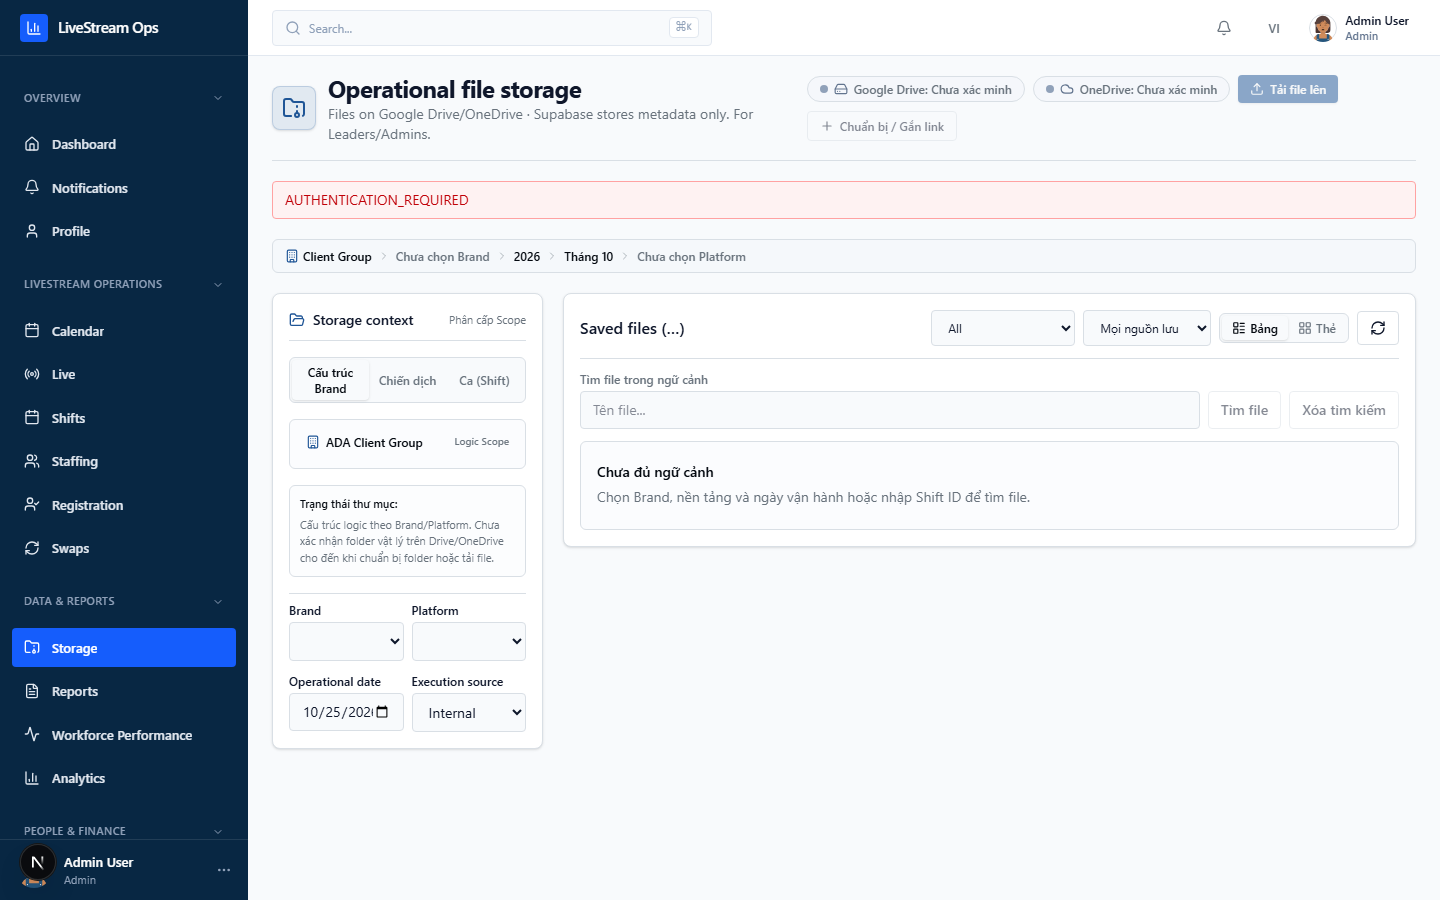
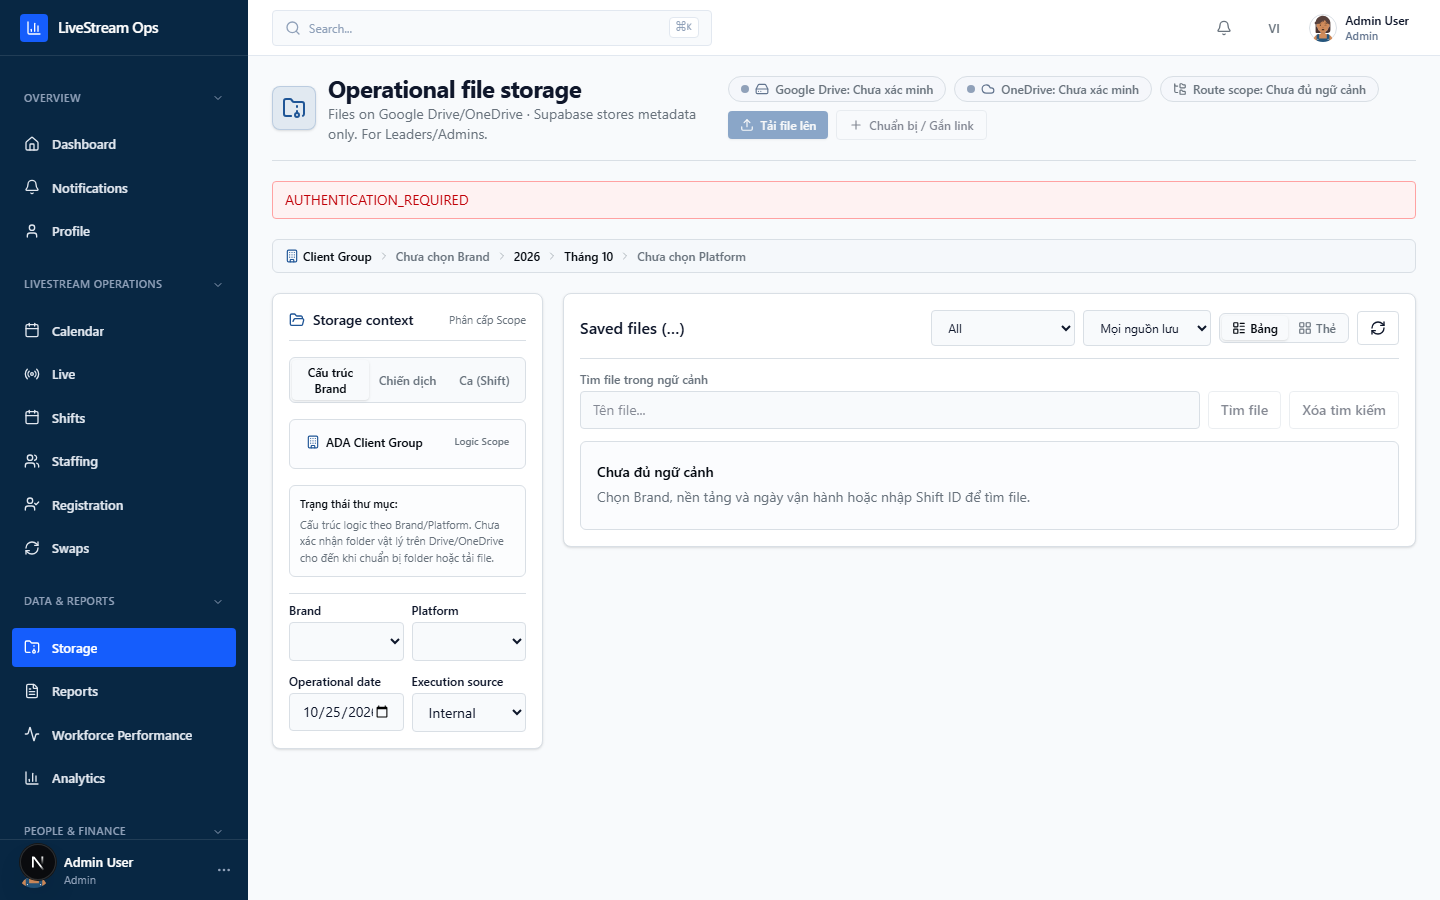
fix(storage): harden trusted access urls and differentiate system vs scope storage routes for u08

Changed region(s): [[0.5, 0.0622, 0.9375, 0.1556], [0.2188, 0.1244, 0.3438, 0.1556]]

diff --git a/components/features/storage/OperationalFileWorkspace.tsx b/components/features/storage/OperationalFileWorkspace.tsx
@@ -10,10 +10,12 @@ import { CommandToolbar } from '@/components/ui/command-toolbar'
 import { useSearchParams } from 'next/navigation'
 import Link from 'next/link'
 import { useTranslation } from '@/lib/i18n'
+import { isTrustedAccessUrl } from '@/lib/files/trustedAccessUrl'
 import {
   FolderArchive,
   Folder,
   FolderOpen,
+  FolderTree,
   ChevronRight,
   ChevronDown,
   Upload,
@@ -467,9 +469,20 @@ export function OperationalFileWorkspace() {
             <span>OneDrive: Chưa xác minh</span>
           </div>
           {catalog?.active_route_count != null && (
-            <div className={cn("flex items-center gap-1.5 rounded-full border px-3 py-1 text-xs font-medium", catalog.active_route_count > 0 ? "bg-slate-50 text-slate-700 border-slate-200" : "bg-amber-50 text-amber-800 border-amber-200")} title="Tổng số Storage Routes đang active trong database">
+            <div className={cn("flex items-center gap-1.5 rounded-full border px-3 py-1 text-xs font-medium", catalog.active_route_count > 0 ? "bg-slate-50 text-slate-700 border-slate-200" : "bg-amber-50 text-amber-800 border-amber-200")} title="Tổng số Storage Routes kích hoạt trong CSDL toàn hệ thống">
               <Layers className="h-3.5 w-3.5" />
-              <span>Storage Routes: {catalog.active_route_count} route(s) CSDL</span>
+              <span>Routes hệ thống: {catalog.active_route_count} route CSDL</span>
+            </div>
+          )}
+          {hasCompleteScope ? (
+            <div className={cn("flex items-center gap-1.5 rounded-full border px-3 py-1 text-xs font-medium", folderPath ? "bg-emerald-50 text-emerald-800 border-emerald-200" : "bg-amber-50 text-amber-800 border-amber-200")} title="Trạng thái xác minh route theo scope (Brand/Platform/Period). Backend là nơi quyết định cuối cùng.">
+              <FolderTree className="h-3.5 w-3.5" />
+              <span>Route scope: {folderPath ? "Đã xác nhận từ backend" : "Chưa xác minh (Fail-closed)"}</span>
+            </div>
+          ) : (
+            <div className="flex items-center gap-1.5 rounded-full border bg-muted/30 px-3 py-1 text-xs font-medium text-muted-foreground" title="Cần chọn đủ Brand, Platform và Ngày để xác định route">
+              <FolderTree className="h-3.5 w-3.5" />
+              <span>Route scope: Chưa đủ ngữ cảnh</span>
             </div>
           )}
 
@@ -940,7 +953,7 @@ export function OperationalFileWorkspace() {
                                 >
                                   <Info className="h-4 w-4" />
                                 </button>
-                                {item.access_url && (item.access_url.startsWith('/api/operational-files') || item.access_url.startsWith('https://')) && (
+                                {item.access_url && isTrustedAccessUrl(item.access_url, item.provider) ? (
                                   <a
                                     className="rounded p-1.5 text-muted-foreground hover:bg-muted hover:text-primary transition-colors"
                                     href={item.access_url}
@@ -951,7 +964,15 @@ export function OperationalFileWorkspace() {
                                   >
                                     <Download className="h-4 w-4" />
                                   </a>
-                                )}
+                                ) : item.access_url ? (
+                                  <span
+                                    className="rounded p-1.5 text-amber-600/60 cursor-not-allowed inline-flex"
+                                    title="URL file không an toàn hoặc chưa được nhà cung cấp xác minh (bị chặn)"
+                                    aria-label={'URL không an toàn: ' + item.file_name}
+                                  >
+                                    <Download className="h-4 w-4" />
+                                  </span>
+                                ) : null}
                                 {canDeleteFile(item.category) ? (
                                   <button
                                     className="rounded p-1.5 text-muted-foreground hover:bg-muted hover:text-destructive transition-colors disabled:opacity-50"
@@ -1047,7 +1068,7 @@ export function OperationalFileWorkspace() {
                         <div className="flex items-center justify-between pt-2 border-t text-[11px] text-muted-foreground">
                           <span>{new Date(item.created_at).toLocaleDateString('vi-VN')}</span>
                           <div className="flex items-center gap-1.5">
-                            {item.access_url && (item.access_url.startsWith('/api/operational-files') || item.access_url.startsWith('https://')) && (
+                            {item.access_url && isTrustedAccessUrl(item.access_url, item.provider) ? (
                               <a
                                 className="rounded-md border border-border px-2 py-1 text-xs font-medium hover:bg-muted hover:text-primary transition-colors inline-flex items-center gap-1"
                                 href={item.access_url}
@@ -1058,7 +1079,15 @@ export function OperationalFileWorkspace() {
                                 <Download className="h-3.5 w-3.5" />
                                 <span>Tải</span>
                               </a>
-                            )}
+                            ) : item.access_url ? (
+                              <span
+                                className="rounded-md border border-border px-2 py-1 text-xs font-medium text-amber-600/60 cursor-not-allowed inline-flex items-center gap-1"
+                                title="URL file không an toàn hoặc chưa được nhà cung cấp xác minh (bị chặn)"
+                              >
+                                <Download className="h-3.5 w-3.5" />
+                                <span>Tải (Chặn)</span>
+                              </span>
+                            ) : null}
                             {canDeleteFile(item.category) && (
                               <button
                                 className="rounded-md border border-border px-2 py-1 text-xs font-medium hover:bg-muted hover:text-destructive transition-colors disabled:opacity-50 inline-flex items-center gap-1"
@@ -1184,7 +1213,7 @@ export function OperationalFileWorkspace() {
               >
                 Đóng
               </button>
-              {inspectItem.access_url && (inspectItem.access_url.startsWith('/api/operational-files') || inspectItem.access_url.startsWith('https://')) && (
+              {inspectItem.access_url && isTrustedAccessUrl(inspectItem.access_url, inspectItem.provider) ? (
                 <a
                   href={inspectItem.access_url}
                   target="_blank"
@@ -1194,7 +1223,15 @@ export function OperationalFileWorkspace() {
                   <Download className="h-3.5 w-3.5" />
                   <span>Mở / Tải file</span>
                 </a>
-              )}
+              ) : inspectItem.access_url ? (
+                <span
+                  className="rounded-md bg-muted text-muted-foreground px-3 py-1.5 text-xs font-medium cursor-not-allowed inline-flex items-center gap-1.5"
+                  title="URL file không thuộc domain cloud provider đáng tin cậy"
+                >
+                  <Download className="h-3.5 w-3.5" />
+                  <span>URL không an toàn (Chặn)</span>
+                </span>
+              ) : null}
             </div>
           </div>
         </div>
@@ -1319,7 +1356,7 @@ export function OperationalFileWorkspace() {
                   >
                     {translate("Tạo / mở folder lưu trữ")}
                   </button>
-                  {folderUrl && (
+                  {folderUrl && isTrustedAccessUrl(folderUrl, provider) && (
                     <p className="text-xs break-all pt-1.5">
                       {translate("Folder:")}
                       <a className="inline-flex min-h-8 items-center break-all text-primary underline font-medium ml-1" href={folderUrl} target="_blank" rel="noopener noreferrer">

diff --git a/tests/rc19-storage-security-patch.test.ts b/tests/rc19-storage-security-patch.test.ts
@@ -1,0 +1,69 @@
+import assert from 'node:assert/strict'
+import { readFileSync } from 'node:fs'
+import test from 'node:test'
+import { isTrustedAccessUrl } from '@/lib/files/trustedAccessUrl'
+
+test('RC19 U08 Security: isTrustedAccessUrl blocks data:, blob:, script injection and untrusted hosts', () => {
+  // Rejects falsy or non-string
+  assert.equal(isTrustedAccessUrl(''), false)
+  assert.equal(isTrustedAccessUrl(null), false)
+  assert.equal(isTrustedAccessUrl(undefined), false)
+
+  // Rejects pseudo-protocols and script injection
+  assert.equal(isTrustedAccessUrl('javascript:alert(1)'), false)
+  assert.equal(isTrustedAccessUrl('vbscript:msgbox(1)'), false)
+  assert.equal(isTrustedAccessUrl('data:text/html;base64,PHNjcmlwdD5hbGVydCgxKTwvc2NyaXB0Pg=='), false)
+  assert.equal(isTrustedAccessUrl('blob:https://drive.google.com/00000000-0000-0000-0000-000000000000'), false)
+  assert.equal(isTrustedAccessUrl('file:///etc/passwd'), false)
+
+  // Rejects unencrypted HTTP
+  assert.equal(isTrustedAccessUrl('http://drive.google.com/file/d/123'), false)
+  assert.equal(isTrustedAccessUrl('http://onedrive.live.com/file'), false)
+
+  // Rejects raw IPs and localhost
+  assert.equal(isTrustedAccessUrl('https://127.0.0.1/file.pdf'), false)
+  assert.equal(isTrustedAccessUrl('https://localhost:3000/api/files'), false)
+  assert.equal(isTrustedAccessUrl('https://192.168.1.100/secret.docx'), false)
+
+  // Rejects untrusted arbitrary external domains
+  assert.equal(isTrustedAccessUrl('https://evil-phishing.com/drive.google.com'), false)
+  assert.equal(isTrustedAccessUrl('https://attacker.site/malware.exe'), false)
+})
+
+test('RC19 U08 Security: isTrustedAccessUrl accepts internal API routes and verified cloud providers', () => {
+  // Accepts internal backend API routes
+  assert.equal(isTrustedAccessUrl('/api/operational-files?file_id=123'), true)
+  assert.equal(isTrustedAccessUrl('/api/operational-files/download?id=abc'), true)
+
+  // Accepts Google Drive domains
+  assert.equal(isTrustedAccessUrl('https://drive.google.com/file/d/1BxiMVs0XRA5nFMdKvBdBZjgmUUqptlbs74OgvE2upms/view'), true)
+  assert.equal(isTrustedAccessUrl('https://docs.google.com/spreadsheets/d/1BxiMVs0XRA5nFMdKvBdBZjgmUUqptlbs74OgvE2upms/edit', 'google_drive'), true)
+  // But rejects Google Drive link when expecting OneDrive
+  assert.equal(isTrustedAccessUrl('https://drive.google.com/file/d/123', 'onedrive'), false)
+
+  // Accepts Microsoft OneDrive & SharePoint domains
+  assert.equal(isTrustedAccessUrl('https://acme-my.sharepoint.com/:x:/r/personal/user/Documents/report.xlsx', 'onedrive'), true)
+  assert.equal(isTrustedAccessUrl('https://onedrive.live.com/?id=root&cid=123', 'onedrive'), true)
+  assert.equal(isTrustedAccessUrl('https://1drv.ms/u/s!ApyZxyz', 'onedrive'), true)
+  // But rejects OneDrive link when expecting Google Drive
+  assert.equal(isTrustedAccessUrl('https://1drv.ms/u/s!ApyZxyz', 'google_drive'), false)
+
+  // Accepts Supabase storage domain
+  assert.equal(isTrustedAccessUrl('https://xyzproject.supabase.co/storage/v1/object/public/reports/file.csv'), true)
+})
+
+test('RC19 U08 Storage Route: Workspace differentiates system-wide routes from scope route verification', () => {
+  const content = readFileSync('components/features/storage/OperationalFileWorkspace.tsx', 'utf8')
+
+  // Verifies separation of system route count from scope route status
+  assert.match(content, /Routes hệ thống:.*?route CSDL/i, 'Workspace must clearly label system-wide routes')
+  assert.match(content, /Route scope:/i, 'Workspace must explicitly indicate scope route status')
+  assert.match(content, /Chưa xác minh \(Fail-closed\)/i, 'Workspace must remain fail-closed when scope route is unverified')
+  assert.match(content, /Chưa đủ ngữ cảnh/i, 'Workspace must indicate incomplete scope')
+
+  // Verifies isTrustedAccessUrl is imported and used for download and folder links
+  assert.match(content, /import.*isTrustedAccessUrl.*from '@\/lib\/files\/trustedAccessUrl'/, 'Workspace must import isTrustedAccessUrl')
+  assert.match(content, /isTrustedAccessUrl\(item\.access_url, item\.provider\)/, 'Table view must guard access_url with isTrustedAccessUrl')
+  assert.match(content, /isTrustedAccessUrl\(inspectItem\.access_url, inspectItem\.provider\)/, 'Modal inspect must guard access_url with isTrustedAccessUrl')
+  assert.match(content, /isTrustedAccessUrl\(folderUrl, provider\)/, 'Attach modal must guard folderUrl with isTrustedAccessUrl')
+})

diff --git a/lib/files/trustedAccessUrl.ts b/lib/files/trustedAccessUrl.ts
@@ -1,0 +1,72 @@
+/**
+ * Security validator for operational file access URLs.
+ * Rejects unsafe protocols (javascript:, vbscript:, data:, blob:) and untrusted hosts.
+ */
+export function isTrustedAccessUrl(url: string | null | undefined, expectedProvider?: string): boolean {
+  if (!url || typeof url !== 'string') return false
+  const trimmed = url.trim()
+  if (!trimmed) return false
+
+  // Reject all script injection and non-standard pseudo-protocols
+  const lower = trimmed.toLowerCase()
+  if (
+    lower.startsWith('javascript:') ||
+    lower.startsWith('vbscript:') ||
+    lower.startsWith('data:') ||
+    lower.startsWith('blob:') ||
+    lower.startsWith('file:') ||
+    lower.startsWith('about:')
+  ) {
+    return false
+  }
+
+  // Internal relative API endpoints are backend-verified and trusted
+  if (trimmed.startsWith('/api/operational-files')) {
+    return true
+  }
+
+  // Cloud provider and external links MUST use secure HTTPS
+  if (!lower.startsWith('https://')) {
+    return false
+  }
+
+  try {
+    const parsed = new URL(trimmed)
+    if (parsed.protocol !== 'https:') return false
+    const hostname = parsed.hostname.toLowerCase()
+
+    // Disallow raw IP addresses and localhost
+    if (!hostname || /^(\d{1,3}\.){3}\d{1,3}$/.test(hostname) || hostname === 'localhost') {
+      return false
+    }
+
+    // Google Drive trusted domains
+    const isGoogleDriveDomain =
+      hostname === 'drive.google.com' ||
+      hostname === 'docs.google.com' ||
+      hostname.endsWith('.drive.google.com') ||
+      hostname.endsWith('.docs.google.com')
+
+    // Microsoft OneDrive / SharePoint trusted domains
+    const isOneDriveDomain =
+      hostname === 'onedrive.live.com' ||
+      hostname === '1drv.ms' ||
+      hostname.endsWith('.sharepoint.com') ||
+      hostname.endsWith('.onedrive.live.com')
+
+    // Backend storage (e.g. Supabase storage)
+    const isSupabaseDomain = hostname.endsWith('.supabase.co')
+
+    if (expectedProvider === 'google_drive') {
+      return isGoogleDriveDomain
+    }
+
+    if (expectedProvider === 'onedrive') {
+      return isOneDriveDomain
+    }
+
+    return isGoogleDriveDomain || isOneDriveDomain || isSupabaseDomain
+  } catch {
+    return false
+  }
+}
